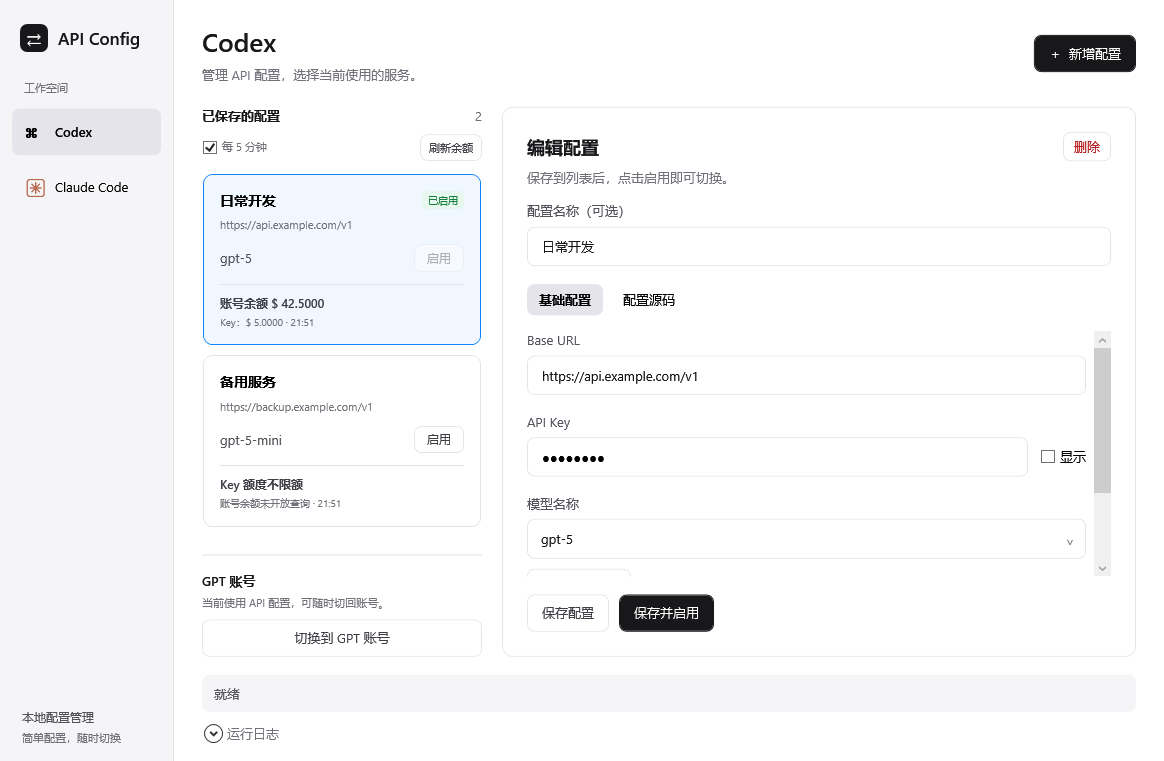
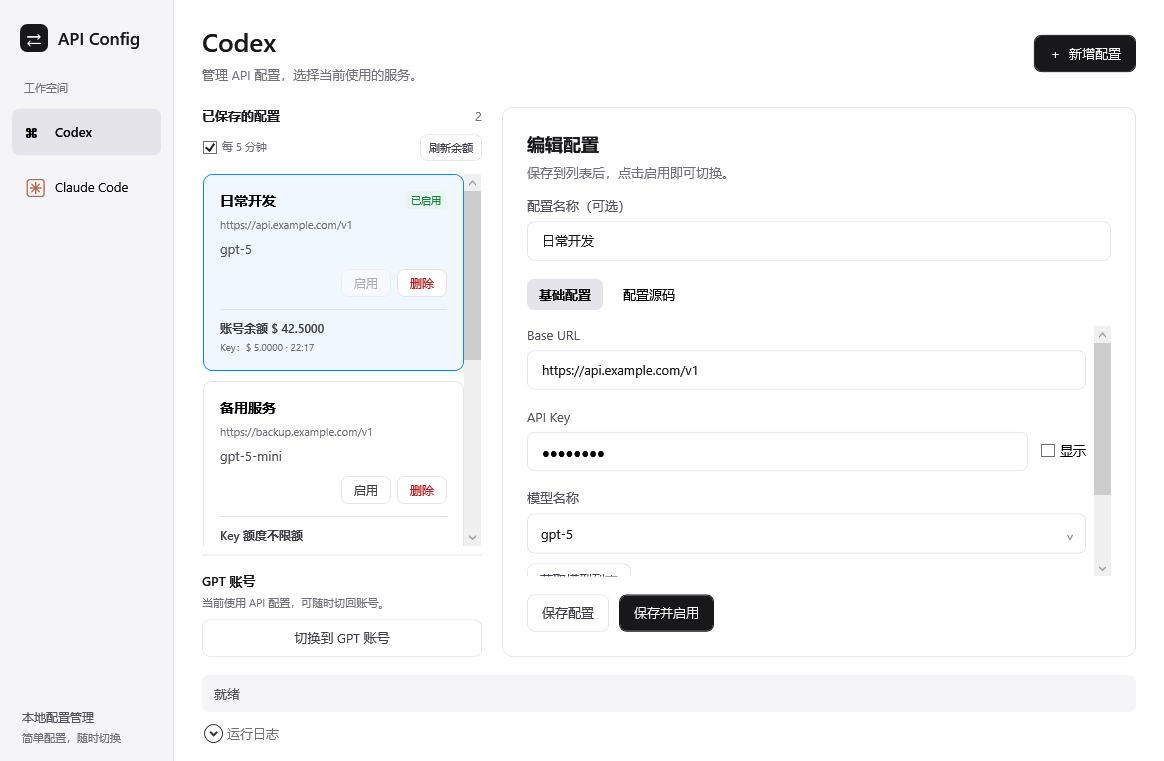
优化配置

diff --git a/MainWindow.xaml b/MainWindow.xaml
@@ -47,8 +47,8 @@
         <Style TargetType="ComboBox">
             <Setter Property="IsEditable" Value="True"/><Setter Property="IsTextSearchEnabled" Value="False"/><Setter Property="Height" Value="40"/><Setter Property="Background" Value="White"/><Setter Property="BorderBrush" Value="{StaticResource Line}"/>
             <Setter Property="Template"><Setter.Value><ControlTemplate TargetType="ComboBox"><Grid>
-                <Border CornerRadius="7" BorderThickness="1" BorderBrush="{TemplateBinding BorderBrush}" Background="White"/>
-                <TextBox x:Name="PART_EditableTextBox" Margin="1,1,33,1" BorderThickness="0" Background="Transparent" Padding="11,8"/>
+                <Border CornerRadius="7" BorderThickness="1" BorderBrush="{TemplateBinding BorderBrush}" Background="White" PreviewMouseLeftButtonUp="ModelInput_PreviewMouseLeftButtonUp"/>
+                <TextBox x:Name="PART_EditableTextBox" Margin="1,1,33,1" BorderThickness="0" Background="Transparent" Padding="11,8" PreviewMouseLeftButtonUp="ModelInput_PreviewMouseLeftButtonUp"/>
                 <ToggleButton Width="32" HorizontalAlignment="Right" Focusable="False" IsChecked="{Binding IsDropDownOpen, RelativeSource={RelativeSource TemplatedParent}, Mode=TwoWay}">
                     <ToggleButton.Template><ControlTemplate TargetType="ToggleButton"><Border Background="Transparent"><TextBlock Text="⌄" HorizontalAlignment="Center" VerticalAlignment="Center" Foreground="#71717A"/></Border></ControlTemplate></ToggleButton.Template>
                 </ToggleButton>
@@ -116,7 +116,11 @@
                             <ListBox.ItemTemplate><DataTemplate><StackPanel>
                                 <DockPanel><Border DockPanel.Dock="Right" Background="#E8F7EE" CornerRadius="4" Padding="6,2" Margin="6,0,0,0" Visibility="{Binding IsActive, Converter={StaticResource BoolVisibility}}"><TextBlock Text="已启用" FontSize="10" Foreground="#15803D"/></Border><TextBlock Text="{Binding Profile.Name}" TextTrimming="CharacterEllipsis" FontWeight="SemiBold" FontSize="14" ToolTip="{Binding Profile.Name}"/></DockPanel>
                                 <TextBlock Text="{Binding Profile.BaseUrl}" Foreground="{StaticResource Muted}" FontSize="11" TextTrimming="CharacterEllipsis" Margin="0,8,0,0" ToolTip="{Binding Profile.BaseUrl}"/>
-                                <DockPanel Margin="0,12,0,0"><Button DockPanel.Dock="Right" Content="启用" Padding="12,5" FontSize="12" Tag="{Binding Profile.Id}" IsEnabled="{Binding CanActivate}" Click="ActivateProfile_Click"/><TextBlock Text="{Binding Profile.Model}" Foreground="#52525B" VerticalAlignment="Center" TextTrimming="CharacterEllipsis" Margin="0,0,6,0"/></DockPanel>
+                                <TextBlock Text="{Binding Profile.Model}" Foreground="#52525B" TextTrimming="CharacterEllipsis" Margin="0,8,0,0" ToolTip="{Binding Profile.Model}"/>
+                                <StackPanel Orientation="Horizontal" HorizontalAlignment="Right" Margin="0,12,0,0">
+                                    <Button Content="启用" Padding="12,5" FontSize="12" Tag="{Binding Profile.Id}" IsEnabled="{Binding CanActivate}" Click="ActivateProfile_Click"/>
+                                    <Button Content="删除" Padding="12,5" FontSize="12" Margin="6,0,0,0" Foreground="#B91C1C" Tag="{Binding Profile.Id}" Click="DeleteProfile_Click"/>
+                                </StackPanel>
                                 <Border BorderBrush="#E4E4E7" BorderThickness="0,1,0,0" Margin="0,12,0,0" Padding="0,10,0,0" ToolTip="{Binding BalanceTooltip}">
                                     <StackPanel>
                                         <TextBlock Text="{Binding BalanceSummary}" FontWeight="SemiBold" Foreground="#3F3F46" FontSize="12" TextWrapping="Wrap"/>
@@ -133,7 +137,7 @@
                     <Grid>
                         <Grid.RowDefinitions><RowDefinition Height="Auto"/><RowDefinition Height="Auto"/><RowDefinition Height="*"/><RowDefinition Height="Auto"/></Grid.RowDefinitions>
                         <StackPanel>
-                            <DockPanel><Button DockPanel.Dock="Right" x:Name="DeleteProfileButton" Content="删除" Padding="10,5" Foreground="#B91C1C" Click="DeleteProfile_Click"/><TextBlock x:Name="EditorTitle" Text="新增配置" FontSize="18" FontWeight="SemiBold" VerticalAlignment="Center"/></DockPanel>
+                            <TextBlock x:Name="EditorTitle" Text="新增配置" FontSize="18" FontWeight="SemiBold"/>
                             <TextBlock x:Name="EditorDescription" Text="保存到列表后，点击启用即可切换。" Foreground="{StaticResource Muted}" Margin="0,8,0,16" TextWrapping="Wrap"/>
                             <StackPanel x:Name="NameField"><TextBlock Text="配置名称（可选）" Style="{StaticResource Label}"/><TextBox x:Name="ProfileNameBox" AutomationProperties.Name="配置名称"/></StackPanel>
                         </StackPanel>

diff --git a/Tests/ProfileInteractionChecks.cs b/Tests/ProfileInteractionChecks.cs
@@ -1,0 +1,125 @@
+using System.IO;
+using System.Windows;
+using System.Windows.Automation.Peers;
+using System.Windows.Automation.Provider;
+using System.Windows.Controls;
+using System.Windows.Controls.Primitives;
+using System.Windows.Input;
+using System.Windows.Media;
+using ApiConfigTool;
+using ApiConfigTool.Services;
+
+internal static partial class Program
+{
+    private static IEnumerable<T> Descendants<T>(DependencyObject parent) where T : DependencyObject
+    {
+        for (var i = 0; i < VisualTreeHelper.GetChildrenCount(parent); i++)
+        {
+            var child = VisualTreeHelper.GetChild(parent, i);
+            if (child is T match) yield return match;
+            foreach (var descendant in Descendants<T>(child)) yield return descendant;
+        }
+    }
+
+    private static void ClickProfileAction(MainWindow window, string id, string action)
+    {
+        var list = (ListBox)window.FindName("ProfileList");
+        var card = list.Items.Cast<MainWindow.ProfileCard>().Single(c => c.Profile.Id == id);
+        list.ScrollIntoView(card);
+        window.UpdateLayout();
+        var container = (ListBoxItem)list.ItemContainerGenerator.ContainerFromItem(card);
+        var buttons = Descendants<Button>(container).ToList();
+        var enable = buttons.Single(b => Equals(b.Content, "启用"));
+        var delete = buttons.Single(b => Equals(b.Content, "删除"));
+        Check(enable.Parent == delete.Parent && delete.IsEnabled);
+        Check(delete.Parent is StackPanel { Orientation: Orientation.Horizontal });
+        var button = buttons.Single(b => Equals(b.Content, action));
+        Check(Equals(button.Tag, id));
+        button.RaiseEvent(new RoutedEventArgs(Button.ClickEvent));
+        Pump();
+    }
+
+    private static void ConfirmedDeletionChecks(MainWindow window, IProfileConfigService service, string id)
+    {
+        var before = File.ReadAllBytes(service.StatePath);
+        var live = File.ReadAllBytes(service.ConfigPath);
+        var selected = ((ListBox)window.FindName("ProfileList")).SelectedItem;
+        var title = ((TextBox)window.FindName("ProfileNameBox")).Text;
+        var calls = 0;
+        window.ConfirmProfileDeletion = profile => { Check(profile.Id == id); calls++; return false; };
+        ClickProfileAction(window, id, "删除");
+        Check(calls == 1 && before.SequenceEqual(File.ReadAllBytes(service.StatePath)));
+        Check(live.SequenceEqual(File.ReadAllBytes(service.ConfigPath)));
+        Check(ReferenceEquals(selected, ((ListBox)window.FindName("ProfileList")).SelectedItem));
+        Check(((TextBox)window.FindName("ProfileNameBox")).Text == title);
+        window.ConfirmProfileDeletion = profile => { Check(profile.Id == id); calls++; return true; };
+        ClickProfileAction(window, id, "删除");
+        Check(calls == 2 && service.LoadProfiles().Profiles.All(p => p.Id != id));
+        Check(live.SequenceEqual(File.ReadAllBytes(service.ConfigPath)));
+        window.ConfirmProfileDeletion = _ => true;
+        _passed++;
+        Console.WriteLine("PASS card deletion prompts, cancellation preserves state, confirmation removes active profile");
+    }
+
+    private static void DeleteOtherAndLastProfileChecks(MainWindow window, IProfileConfigService service, string activeId)
+    {
+        var list = (ListBox)window.FindName("ProfileList");
+        var other = list.Items.Cast<MainWindow.ProfileCard>().Single(c => c.Profile.Id != activeId);
+        list.SelectedItem = other; Pump();
+        var url = (TextBox)window.FindName("BaseUrlBox");
+        url.Text = "https://draft.example.com/v1";
+        ClickProfileAction(window, activeId, "启用");
+        var live = File.ReadAllBytes(service.ConfigPath);
+        ClickProfileAction(window, activeId, "删除");
+        Check(list.Items.Count == 1 && ((MainWindow.ProfileCard)list.SelectedItem).Profile.Id == other.Profile.Id);
+        Check(url.Text == "https://draft.example.com/v1");
+        Check(live.SequenceEqual(File.ReadAllBytes(service.ConfigPath)));
+        url.Text = other.Profile.BaseUrl;
+        ClickProfileAction(window, other.Profile.Id, "删除");
+        Check(list.Items.Count == 0 && list.SelectedItem is null);
+        Check(((FrameworkElement)window.FindName("EmptyProfiles")).Visibility == Visibility.Visible);
+        Check(((TextBlock)window.FindName("EditorTitle")).Text == "新增配置");
+        Check(url.Text == "" && service.LoadProfiles().Profiles.Count == 0);
+        _passed++;
+        Console.WriteLine("PASS deleting another card preserves the editor draft; deleting the final card shows the empty form");
+    }
+
+    private static void ModelDropdownChecks(MainWindow window, ComboBox combo)
+    {
+        var editor = (TextBox)combo.Template.FindName("PART_EditableTextBox", combo);
+        void ClickInput(UIElement target)
+        {
+            target.RaiseEvent(new MouseButtonEventArgs(Mouse.PrimaryDevice, Environment.TickCount, MouseButton.Left)
+            { RoutedEvent = UIElement.PreviewMouseLeftButtonUpEvent });
+            Pump();
+        }
+        var original = combo.Text;
+        ClickInput(editor);
+        Check(!combo.IsDropDownOpen); // An empty list still permits manual input.
+        combo.Items.Add("gpt-5"); combo.Items.Add("gpt-5-mini");
+        combo.Text = original;
+        ClickInput(editor);
+        Check(combo.IsDropDownOpen && combo.Text == original);
+        var popup = (Popup)combo.Template.FindName("PART_Popup", combo);
+        Check(popup.IsOpen);
+        combo.SelectedIndex = 1;
+        combo.IsDropDownOpen = false;
+        Pump();
+        Check(combo.Text == "gpt-5-mini" && editor.Text == "gpt-5-mini");
+        var arrow = Descendants<ToggleButton>(combo).Single();
+        var toggle = (IToggleProvider)new ToggleButtonAutomationPeer(arrow).GetPattern(PatternInterface.Toggle);
+        toggle.Toggle(); Pump();
+        Check(combo.IsDropDownOpen); // The arrow continues to toggle normally.
+        toggle.Toggle(); Pump();
+        Check(!combo.IsDropDownOpen);
+        var border = (Border)((Grid)VisualTreeHelper.GetChild(combo, 0)).Children[0];
+        ClickInput(border);
+        Check(combo.IsDropDownOpen);
+        editor.Text = "manually-entered-model"; Pump();
+        Check(combo.Text == "manually-entered-model");
+        combo.IsDropDownOpen = false;
+        combo.Items.Clear(); combo.Text = original;
+        _passed++;
+        Console.WriteLine("PASS model input and border open the dropdown, selection updates text, arrow toggles and manual entry works");
+    }
+}

diff --git a/Tests/ExtendedChecks.cs b/Tests/ExtendedChecks.cs
@@ -18,7 +18,26 @@ internal static partial class Program
             ("Claude drafts do not modify active file", d => { var c = new ClaudeConfigService(d.Path); var a = c.SaveProfile(null, "A", "https://a.example", "key", "m"); c.ActivateProfile(a.Id); var before = File.ReadAllBytes(c.ConfigPath); c.SaveProfile(a.Id, "A", "https://new.example", "new-key", "new-model"); Check(before.SequenceEqual(File.ReadAllBytes(c.ConfigPath))); Check(c.LoadProfiles().ActiveId is null); }),
             ("Claude imports an existing API-key config on first launch", d => { var c = new ClaudeConfigService(d.Path); File.WriteAllText(c.ConfigPath, "{\"env\":{\"ANTHROPIC_API_KEY\":\"key\",\"ANTHROPIC_BASE_URL\":\"https://existing.example/api\"},\"model\":\"m\",\"permissions\":{\"allow\":[\"Read\"]}}"); var list = c.LoadProfiles(); Check(list.Profiles.Count == 1 && list.ActiveId == list.Profiles[0].Id); Check(list.Profiles[0].Id == c.LoadProfiles().Profiles[0].Id); var imported = c.ImportCurrent(); c.ActivateProfile(imported.Id); Check(ReadClaude(c)["env"]!["ANTHROPIC_API_KEY"]!.GetValue<string>() == "key"); Check(ReadClaude(c)["permissions"] is JsonObject); }),
             ("Claude removes stale alternate authentication", d => { var c = new ClaudeConfigService(d.Path); File.WriteAllText(c.ConfigPath, "{\"env\":{\"ANTHROPIC_API_KEY\":\"stale\",\"CUSTOM\":\"keep\"}}"); var a = c.SaveProfile(null, "A", "https://a.example", "new", "m"); c.ActivateProfile(a.Id); var env = (JsonObject)ReadClaude(c)["env"]!; Check(!env.ContainsKey("ANTHROPIC_API_KEY")); Check(env["CUSTOM"]!.GetValue<string>() == "keep"); }),
-            ("Claude protects active profile and deletes inactive", d => { var c = new ClaudeConfigService(d.Path); var a = c.SaveProfile(null, "A", "https://a.example", "key", "m"); var b = c.SaveProfile(null, "B", "https://b.example", "key", "m"); c.ActivateProfile(a.Id); Throws(() => c.DeleteProfile(a.Id)); c.DeleteProfile(b.Id); Check(c.LoadProfiles().Profiles.Count == 1); }),
+            ("Claude deletes inactive, active and last profiles without touching live settings", d =>
+            {
+                var c = new ClaudeConfigService(d.Path);
+                var a = c.SaveProfile(null, "A", "https://a.example", "key", "m");
+                var b = c.SaveProfile(null, "B", "https://b.example", "key", "m");
+                c.ActivateProfile(a.Id);
+                var live = File.ReadAllBytes(c.ConfigPath);
+                c.DeleteProfile(b.Id);
+                Check(c.LoadProfiles().ActiveId == a.Id);
+                b = c.SaveProfile(null, "B", "https://b.example", "key", "m");
+                c.DeleteProfile(a.Id);
+                Check(c.LoadProfiles().Profiles.Single().Id == b.Id && c.LoadProfiles().ActiveId is null);
+                Check(!JsonNode.Parse(File.ReadAllText(c.StatePath))!.AsObject().ContainsKey("active_profile_id"));
+                Check(live.SequenceEqual(File.ReadAllBytes(c.ConfigPath)));
+                c.ActivateProfile(b.Id);
+                live = File.ReadAllBytes(c.ConfigPath);
+                c.DeleteProfile(b.Id);
+                Check(new ClaudeConfigService(d.Path).LoadProfiles().Profiles.Count == 0);
+                Check(live.SequenceEqual(File.ReadAllBytes(c.ConfigPath)));
+            }),
             ("Claude identical fields track selected ID", d => { var c = new ClaudeConfigService(d.Path); c.SaveProfile(null, "A", "https://a.example", "key", "m"); var b = c.SaveProfile(null, "B", "https://a.example", "key", "m"); c.ActivateProfile(b.Id); Check(c.LoadProfiles().ActiveId == b.Id); }),
             ("Claude source adds, edits and removes arbitrary settings", d => { var c = new ClaudeConfigService(d.Path); File.WriteAllText(c.ConfigPath, "{\"permissions\":{\"allow\":[\"Read\"]},\"env\":{\"REMOVE_ME\":\"old\"}}"); var preview = c.PreviewConfig(new("", "A", "https://a.example", "key", "m")); var json = JsonNode.Parse(preview)!.AsObject(); json["permissions"]!["allow"] = new JsonArray("Read", "Edit"); json["custom"] = new JsonObject { ["array"] = new JsonArray(1, 2, 3), ["flag"] = true }; ((JsonObject)json["env"]!).Remove("REMOVE_ME"); var p = c.SaveProfile(null, "A", "ignored", "ignored", "ignored", json.ToJsonString()); Check(!ReadClaude(c).ContainsKey("custom")); c.ActivateProfile(p.Id); Check(JsonNode.DeepEquals(json, ReadClaude(c))); Check(c.LoadProfiles().ActiveId == p.Id); }),
             ("Claude custom source survives form edits", d => { var c = new ClaudeConfigService(d.Path); var raw = "{\"env\":{\"ANTHROPIC_AUTH_TOKEN\":\"key\",\"ANTHROPIC_BASE_URL\":\"https://a.example\",\"CUSTOM\":\"keep\"},\"model\":\"m\",\"permissions\":{\"allow\":[\"Read\"]}}"; var p = c.SaveProfile(null, "A", "", "", "", raw); var updated = c.PreviewConfig(p with { Model = "new-model", ApiKey = "new-key" }); p = c.SaveProfile(p.Id, "A", "", "", "", updated); c.ActivateProfile(p.Id); Check(ReadClaude(c)["model"]!.GetValue<string>() == "new-model"); Check(ReadClaude(c)["env"]!["CUSTOM"]!.GetValue<string>() == "keep"); }),
@@ -121,14 +140,8 @@ internal static partial class Program
         var newId = claude.LoadProfiles().Profiles.Last().Id;
         Click(window, "SaveActivateButton");
         Check(claude.LoadProfiles().ActiveId == newId);
-        ((Button)window.FindName("DeleteProfileButton")).RaiseEvent(new RoutedEventArgs(Button.ClickEvent)); Pump();
-        Check(claude.LoadProfiles().Profiles.Count == 3);
-        var target = claude.LoadProfiles().Profiles.First();
-        var activate = new Button { Tag = target.Id };
-        typeof(MainWindow).GetMethod("ActivateProfile_Click", System.Reflection.BindingFlags.NonPublic | System.Reflection.BindingFlags.Instance)!.Invoke(window, new object[] { activate, new RoutedEventArgs(Button.ClickEvent) });
-        Pump();
-        Click(window, "DeleteProfileButton");
-        Check(claude.LoadProfiles().Profiles.Count == 2);
+        ConfirmedDeletionChecks(window, claude, newId);
+        Check(claude.LoadProfiles().Profiles.Count == 2 && claude.LoadProfiles().ActiveId is null);
         Mode(window, "BasicModeButton");
         _passed++;
         Console.WriteLine("PASS Claude UI create/switch/delete, TOML/JSON source-form sync, syntax rejection and draft isolation");

diff --git a/Tests/Program.cs b/Tests/Program.cs
@@ -37,7 +37,25 @@ internal static partial class Program
             ("State failure rolls both live files back", d => Rollback(d, "apiconfig_state.json")),
             ("Auth failure leaves everything unchanged", d => Rollback(d, "auth.json")),
             ("Rollback removes newly-created auth and config", d => { var a = d.Save("A"); var before = d.Bytes(); var fail = new CodexConfigService(d.Path, (path, bytes) => { if (path.EndsWith("apiconfig_state.json")) throw new IOException("injected"); AtomicFile.Write(path, bytes); }); Throws(() => fail.ActivateProfile(a.Id)); d.Unchanged(before); }),
-            ("Active deletion blocked, inactive deletion persists", d => { var a = d.Save("A"); var b = d.Save("B"); d.Service.ActivateProfile(a.Id); Throws(() => d.Service.DeleteProfile(a.Id)); d.Service.DeleteProfile(b.Id); Check(d.Service.LoadProfiles().Profiles.Count == 1); d.Service.SwitchToGptAccount(); d.Service.DeleteProfile(a.Id); Check(d.Service.LoadProfiles().Profiles.Count == 0); }),
+            ("Codex deletes inactive, active and last profiles without touching live files", d =>
+            {
+                var a = d.Save("A"); var b = d.Save("B");
+                d.WriteAuth("{\"tokens\":{\"refresh_token\":\"keep\"}}");
+                d.Service.ActivateProfile(a.Id);
+                var config = File.ReadAllBytes(d.Service.ConfigPath); var auth = File.ReadAllBytes(d.Service.AuthPath);
+                d.Service.DeleteProfile(b.Id);
+                Check(d.Service.LoadProfiles().ActiveId == a.Id);
+                b = d.Save("B");
+                d.Service.DeleteProfile(a.Id);
+                var state = d.Service.LoadProfiles();
+                Check(state.Profiles.Single().Id == b.Id && state.ActiveId is null && state.Mode == CodexConfigurationMode.ApiConfiguration);
+                Check(!JsonNode.Parse(File.ReadAllText(d.Service.StatePath))!.AsObject().ContainsKey("active_profile_id"));
+                d.Service.ActivateProfile(b.Id);
+                config = File.ReadAllBytes(d.Service.ConfigPath);
+                d.Service.DeleteProfile(b.Id);
+                Check(new CodexConfigService(d.Path).LoadProfiles().Profiles.Count == 0);
+                Check(config.SequenceEqual(File.ReadAllBytes(d.Service.ConfigPath)) && auth.SequenceEqual(File.ReadAllBytes(d.Service.AuthPath)));
+            }),
             ("External config changes clear active status", d => { var a = d.Save("A"); d.Service.ActivateProfile(a.Id); d.WriteConfig("model='external'\n"); var list = d.Service.LoadProfiles(); Check(list.ActiveId is null && list.Mode == CodexConfigurationMode.GptAccount); }),
             ("Default Codex profile cannot silently override activation", d => { var a = d.Save("A"); d.WriteConfig("profile='work'\nmodel='m'\n[profiles.work]\nmodel_provider='openai'\n"); var before = d.Bytes(); Throws(() => d.Service.ActivateProfile(a.Id)); d.Unchanged(before); }),
             ("Active detection honors default Codex profile", d => { var a = d.Save("A"); d.Service.ActivateProfile(a.Id); var live = File.ReadAllText(d.Service.ConfigPath); d.WriteConfig("profile='work'\n" + live + "\n[profiles.work]\nmodel='different-model'\n"); Check(d.Service.LoadProfiles().ActiveId is null); }),
@@ -107,6 +125,7 @@ internal static partial class Program
         var editor = (TextBox)combo.Template.FindName("PART_EditableTextBox", combo);
         editor.Text = "typed-model"; Pump(); Check(combo.Text == "typed-model");
         editor.Text = "gpt-5"; Pump();
+        ModelDropdownChecks(window, combo);
         var profiles = (ListBox)window.FindName("ProfileList");
         var baseUrl = (TextBox)window.FindName("BaseUrlBox");
         baseUrl.Text = "https://draft.example.com/v1";
@@ -134,10 +153,12 @@ internal static partial class Program
         Check(d.Service.LoadProfiles().ActiveId == a.Id);
         Click(window, "SaveActivateButton");
         Check((string)d.Provider()["experimental_bearer_token"] == "ui-key");
+        var newId = d.Service.LoadProfiles().ActiveId!;
+        ConfirmedDeletionChecks(window, d.Service, newId);
+        Check(d.Service.LoadProfiles().Profiles.Count == 2 && d.Service.LoadProfiles().ActiveId is null);
         Click(window, "GptButton");
         Check(d.Service.LoadProfiles().Mode == CodexConfigurationMode.GptAccount);
-        Click(window, "DeleteProfileButton");
-        Check(d.Service.LoadProfiles().Profiles.Count == 2);
+        DeleteOtherAndLastProfileChecks(window, d.Service, a.Id);
         window.Close(); app.Shutdown();
         _passed++;
         Console.WriteLine("PASS WPF render, editable model, draft retention, compact layout, navigation and save/activate/GPT/delete buttons");

diff --git a/MainWindow.xaml.cs b/MainWindow.xaml.cs
@@ -1,6 +1,7 @@
 using System.ComponentModel;
 using System.Windows;
 using System.Windows.Controls;
+using System.Windows.Input;
 using System.Windows.Media;
 using System.Windows.Threading;
 using ApiConfigTool.Services;
@@ -31,6 +32,7 @@ public partial class MainWindow : Window
     private IProfileConfigService Service => _isCodex ? _codex : _claude;
     private EditorSession Session => _isCodex ? _codexSession : _claudeSession;
     private string AppName => _isCodex ? "Codex" : "Claude Code";
+    internal Func<ApiProfile, bool> ConfirmProfileDeletion { get; set; }
 
     public sealed class ProfileCard(ApiProfile profile, bool isActive, BalanceSnapshot balance) : INotifyPropertyChanged
     {
@@ -66,6 +68,9 @@ public partial class MainWindow : Window
         _codex = codex;
         _claude = claude;
         _balances = balances ?? new BalanceMonitor();
+        ConfirmProfileDeletion = profile => MessageBox.Show(this,
+            $"确定删除配置「{profile.Name}」吗？\n\n删除后，已写入本机的 {AppName} 配置仍会保留。",
+            "删除配置", MessageBoxButton.YesNo, MessageBoxImage.Question, MessageBoxResult.No) == MessageBoxResult.Yes;
         InitializeComponent();
         _balances.Changed += Balances_Changed;
         SizeChanged += (_, _) => ApplyLayout();
@@ -217,7 +222,6 @@ public partial class MainWindow : Window
         SourceBox.IsUndoEnabled = false; SourceBox.IsUndoEnabled = true;
         SetEditorMode(draft.SourceMode);
         EditorTitle.Text = profile is null ? "新增配置" : "编辑配置";
-        DeleteProfileButton.Visibility = profile is null ? Visibility.Collapsed : Visibility.Visible;
     }
 
     private void SetEditorMode(bool source)
@@ -346,13 +350,20 @@ public partial class MainWindow : Window
     });
     private void DeleteProfile_Click(object sender, RoutedEventArgs e) => Run(() =>
     {
-        if (Session.Id is null) return;
-        Service.DeleteProfile(Session.Id);
-        Session.Drafts.Remove(Session.Id);
-        Session.Id = null;
-        Session.Initialized = false;
-        RefreshProfiles(selectInitial: true);
-        Report("配置已删除。");
+        e.Handled = true;
+        if (sender is not Button { Tag: string id }) return;
+        var profile = Session.Cards.FirstOrDefault(card => card.Profile.Id == id)?.Profile;
+        if (profile is null || !ConfirmProfileDeletion(profile)) return;
+        Service.DeleteProfile(id);
+        Session.Drafts.Remove(id);
+        if (Session.Id == id)
+        {
+            Session.Id = null;
+            Session.Initialized = false;
+            RefreshProfiles(selectInitial: true);
+        }
+        else RefreshProfiles();
+        Report($"已删除「{profile.Name}」，本机配置保持不变。");
     });
     private void ImportProfile_Click(object sender, RoutedEventArgs e) => Run(() =>
     {
@@ -377,6 +388,13 @@ public partial class MainWindow : Window
     }
     private string GetKey() => (ShowKeyCheck.IsChecked == true ? ApiKeyPlainBox.Text : ApiKeyBox.Password).Trim();
     private void SetKey(string key) { ApiKeyBox.Password = key; ApiKeyPlainBox.Text = key; }
+    private void ModelInput_PreviewMouseLeftButtonUp(object sender, MouseButtonEventArgs e)
+    {
+        // Open from the editable area as well as the arrow, without consuming text editing input.
+        if (sender is FrameworkElement { TemplatedParent: ComboBox combo } && combo.HasItems)
+            combo.IsDropDownOpen = true;
+    }
+
     private async void Fetch_Click(object sender, RoutedEventArgs e)
     {
         var url = BaseUrlBox.Text.Trim();

diff --git a/Services/CodexConfigService.cs b/Services/CodexConfigService.cs
@@ -76,10 +76,6 @@ public sealed class CodexConfigService : IProfileConfigService
         var profiles = ReadProfiles(state);
         var profile = profiles.SingleOrDefault(p => p.Id == id)
             ?? throw new InvalidOperationException("未找到该配置。");
-        var live = ReadLive();
-        if (DetectMode(live.Config) == CodexConfigurationMode.ApiConfiguration &&
-            (Matches(profile, ReadSettings(live.Config, live.Auth)) || GetString(state, "active_profile_id") == id))
-            throw new InvalidOperationException("请先启用其他配置或切换到 GPT 账号，再删除当前配置。");
         profiles.Remove(profile);
         SetProfiles(state, profiles);
         if (GetString(state, "active_profile_id") == id) state.Remove("active_profile_id");

diff --git a/Services/ClaudeConfigService.cs b/Services/ClaudeConfigService.cs
@@ -79,10 +79,9 @@ public sealed class ClaudeConfigService : IProfileConfigService
         var state = LoadState();
         var profiles = ReadProfiles(state);
         var profile = profiles.SingleOrDefault(p => p.Id == id) ?? throw new InvalidOperationException("未找到该配置。");
-        if (Matches(profile, ReadLive()) || String(state, "active_profile_id") == id)
-            throw new InvalidOperationException("请先启用其他配置，再删除当前配置。");
         profiles.Remove(profile);
         SetProfiles(state, profiles);
+        if (String(state, "active_profile_id") == id) state.Remove("active_profile_id");
         WriteState(state);
     }
 

diff --git a/README.md b/README.md
@@ -13,14 +13,14 @@
 - 启用状态按实际配置文件核对，外部修改后重新回到窗口会刷新状态。
 - 首次打开时读取本机 API 配置，兼容旧版工具的 API / GPT 备份；也可以手动从本机导入。
 - 在不同配置或应用之间查看时暂存未保存的表单与源码（包括尚未修正的语法错误），关闭窗口前提示尚未保存的修改。
-- 支持获取模型列表或手动输入模型，密钥默认隐藏。
+- 支持获取模型列表后点击模型输入框展开选择，也可手动输入模型；密钥默认隐藏。
 - 保留 GPT 账号切换，优先使用当前登录信息，避免用旧备份覆盖已经刷新的令牌。
 - **配置源码**可直接编辑 Codex TOML 或 Claude JSON，支持校验、撤销和展开编辑。
 - **New API 余额**显示在配置卡片中，工具运行时每 5 分钟自动刷新，也可手动刷新。
 
 从 GitHub Release 下载 Windows 压缩包或单文件 `ApiConfigTool.exe`，解压后运行。选择 Codex 或 Claude Code，新增配置并填写三项参数，点击“保存并启用”；以后可直接点击配置卡片上的“启用”。配置修改后请重新启动对应应用的会话。
 
-正在启用的配置需先启用另一套配置才能删除。Codex 也可先切回 GPT 账号；未登录的用户需使用 Codex 自带的登录流程。
+每张配置卡片的“启用”旁都有“删除”按钮，确认后即可删除，包括正在启用的配置，无需先切换。删除仅移除工具中的配置记录，已写入本机的 Codex / Claude Code 配置仍会保留。Codex 未登录的用户需使用 Codex 自带的登录流程。
 
 ### New API 余额查询
 
